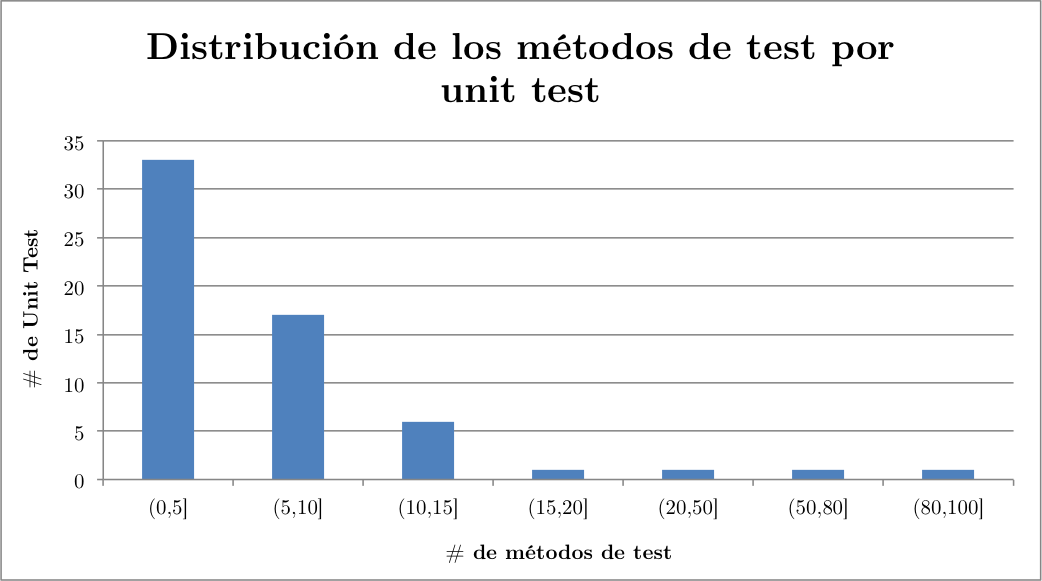
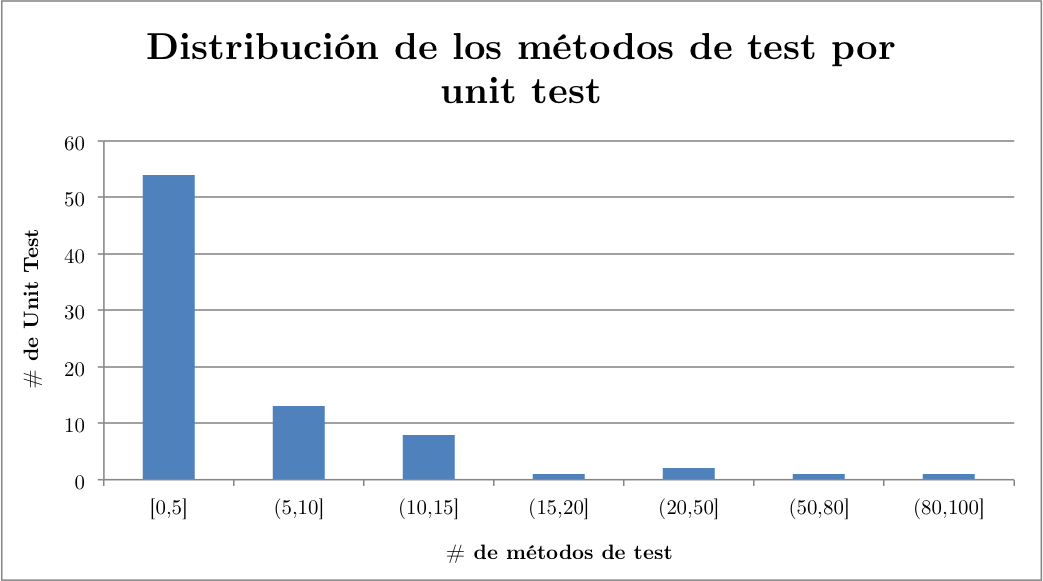
Correcciones en Caso de Estudio

diff --git a/chapters/caso-estudio.tex b/chapters/caso-estudio.tex
@@ -1,4 +1,8 @@
 \chapter{Caso de estudio: Roassal}\chaplabel{caso-de-estudio}
+% +-- TODO --*
+% - Figura: 
+%	- 
+% 	- 
 
 \par En el siguiente capítulo se presentará una aplicación de \emph{TestSurgeon} analizando los tests de \emph{Roassal}. 
 
@@ -6,17 +10,52 @@
 
 \par Roassal es un motor de visualización desarrollado en la plataforma Pharo. Roassal está hecho para visualizar e interactuar con datos arbitrarios definidos en términos de objetos y sus relaciones. Roassal es comúnmente utilizado para producir visualizaciones interactivas. El rango de aplicaciones usando Roassal es diverso. Por ejemplo, es muy utilizado en el análisis de software (ver \figref{caso-estudio/roassal-example.png}), de hecho es utilizado en la visualización de TestSurgeon.
 
+\par A continuación se adjunta el código que permite visualizar una jerarquía de clases y algunas propiedades de cada una de sus componentes usando Roassal. La clase visualizada es {\tt Collection}, clase abstracta de la cual heredan distintos tipos de clases que representan colecciones de objetos, como por ejemplo: {\tt Set}, {\tt Array}, {\tt OrderedCollection}, {\tt String} y {\tt Dictionary}, entre otros. La visualización presentada en la \figref{caso-estudio/roassal-example.png} muestra a cada clase con una altura y ancho dados, sus medidas dependen de su cantidad de métodos definidos (alto) y número de atributos (ancho). El código que hace esto posible se adjunta a continuación.\\
+
+\begin{code}
+view := ROView new.
+classElements := ROElement forCollection:
+	Collection withAllSubclasses.
+" Crear elementos graficos a partir de la clase Collection y sus clases hijas "
+classElements
+	do: [:c |
+		c width: c model instVarNames size.
+		c height: c model methods size.
+		c + ROBorder.
+		c @ RODraggable ].
+view addAll: classElements.
+\end{code}
+
+\begin{code}
+" Enlazar clases para formar la jerarquia "
+associations := classElements collect: [:c |
+	(c model superclass = Object)
+		ifFalse: [ (view elementFromModel: c
+		model superclass) -> c]
+	] thenSelect: [:assoc | assoc isNil not ].
+edges := ROEdge linesFor: associations.
+view addAll: edges.
+
+" Aplicar una distribucion grafica en forma de arbol para visualizar mejor la jerarquia "
+ROTreeLayout new on: view elements.
+view open
+
+\end{code}
+
 \fig{h}{0.35}{caso-estudio/roassal-example.png}{Visualización hecha en Roassal: Jerarquía de la clase {\tt Collection} (arreglos, diccionarios y variantes) y sus clases hijas. El alto representa el número de métodos y el ancho el número de atributos}
 
 \section{Contexto}
 
-\par Como primera aplicación de \emph{TestSurgeon} se consideró refactorizar el código de test de Roassal. La versión es la número 441 que puede ser descargada desde el repositorio en SmalltalkHub\footnote{Repositorio de Roassal en SmalltalkHub versión 441 - \url{http://smalltalkhub.com/#!/~ObjectProfile/Roassal/versions/Roassal-VanessaPena.441} } consta de 30 paquetes que contienen 301 clases que definen 4137 métodos que en total suman 29720 líneas de código. El correcto funcionamiento de este código es asegurado por 93 unit test que en total suman 760 test methods, cuya cobertura alcanza un 72.37 \%. 
+\par Como primera aplicación de \emph{TestSurgeon} se consideró refactorizar el código de test de Roassal. La versión analizada es la número 441 que puede ser descargada desde el repositorio en SmalltalkHub\footnote{Repositorio de Roassal en SmalltalkHub versión 441 - \url{http://smalltalkhub.com/#!/~ObjectProfile/Roassal/versions/Roassal-VanessaPena.441} }. Esta consta de 30 paquetes los cuales contienen 301 clases que, a su vez, definen 4137 métodos. Estos últimos en total suman 29.720 líneas de código.
 
-\par Cada unit test está relacionado a una característica particular de Roassal como: manejo eventos, interacción, formas de las figuras(shapes), rendering, entre otros. Sin embargo uno de esos unit tests parece contener una cantidad significativamente mayor de tests en comparación a los demás unit tests. Esta situación se puede observar claramente en la \figref{caso-estudio/distribucion-tests.png} que muestra la distribución de los tests methods dentro de los unit test. A primera vista se aprecia que la mayoría de los unit tests en Roassal contiene una cantidad pequeña de tests, los datos observados corroboran esto ya que el 55\% de los unit test contiene a lo más 5 tests, un 83\% contiene a lo más de 10 test. 
+\par Por su parte, el correcto funcionamiento de este código es asegurado por 80 unit test que contienen, todos juntos, 556 test methods. La cobertura de los tests alcanza un 72.37 \%.  En Roassal cada unit test está relacionado a una característica particular de Roassal como: manejo eventos, interacción, formas de las figuras(shapes), rendering, entre otros. Sin embargo uno de esos unit tests parece contener una cantidad significativamente mayor de tests en comparación a los demás unit tests.  El unit test en cuestión es {\tt ROMondrianViewBuilderTest} el cual contiene 96 métodos de test que corresponde a un 17\% del total de test methods definidos en Roassal. 
 
-% Pq es complicado y pq analizar ROViewMondrianBuilder (alto nivel)
-\par 
+\par Además se verificó que la gran mayoría de los unit test aporta una cantidad relativamente pequeña de tests. Esta situación se puede observar en la \figref{caso-estudio/distribucion-tests.png} donde se muestra la distribución de los test methods dentro de los unit test. Los unit tests se agruparon según la cantidad de tests que contienen. Se aprecia que la mayoría de los unit tests en Roassal contiene una cantidad pequeña de tests, de hecho el 55\% de los unit test contiene a lo más 5 tests (ver \tabref{distribucion-tests}) y contando como máximo 10 tests ya se alcanza un 83\% del total de los unit tests. 
+
 \fig{h}{0.8}{caso-estudio/distribucion-tests.png}{Distribución de los tests methods por unit test}
+
+\par En conclusión, Roassal tiene una distribución de test que complica su mantenibilidad. Es más, {\tt ROMondrianViewBuilderTest} contiene las pruebas sobre la clase {\tt ROMondrianViewBuilder}, una clase que proporciona una API de alto nivel para crear visualizaciones. Esta API proporciona la mayoría de las funcionalidades de Roassal, por lo cual {\tt ROMondrianViewBuilderTest} prácticamente realiza llamados sobre gran parte del código de Roassal, además del código de la API. Eso hace que haya solapamientos de ejecución entre este y otros unit tests. Además al ser tests de alto nivel, cubren un funcionamiento más complejo lo cual, a su vez, hace que sus tests sean más complejos. Entonces, a la hora de ejecutarlos, si uno falla es difícil detectar donde está el error.
+
 
 \section{Clustering por cobertura}
 
